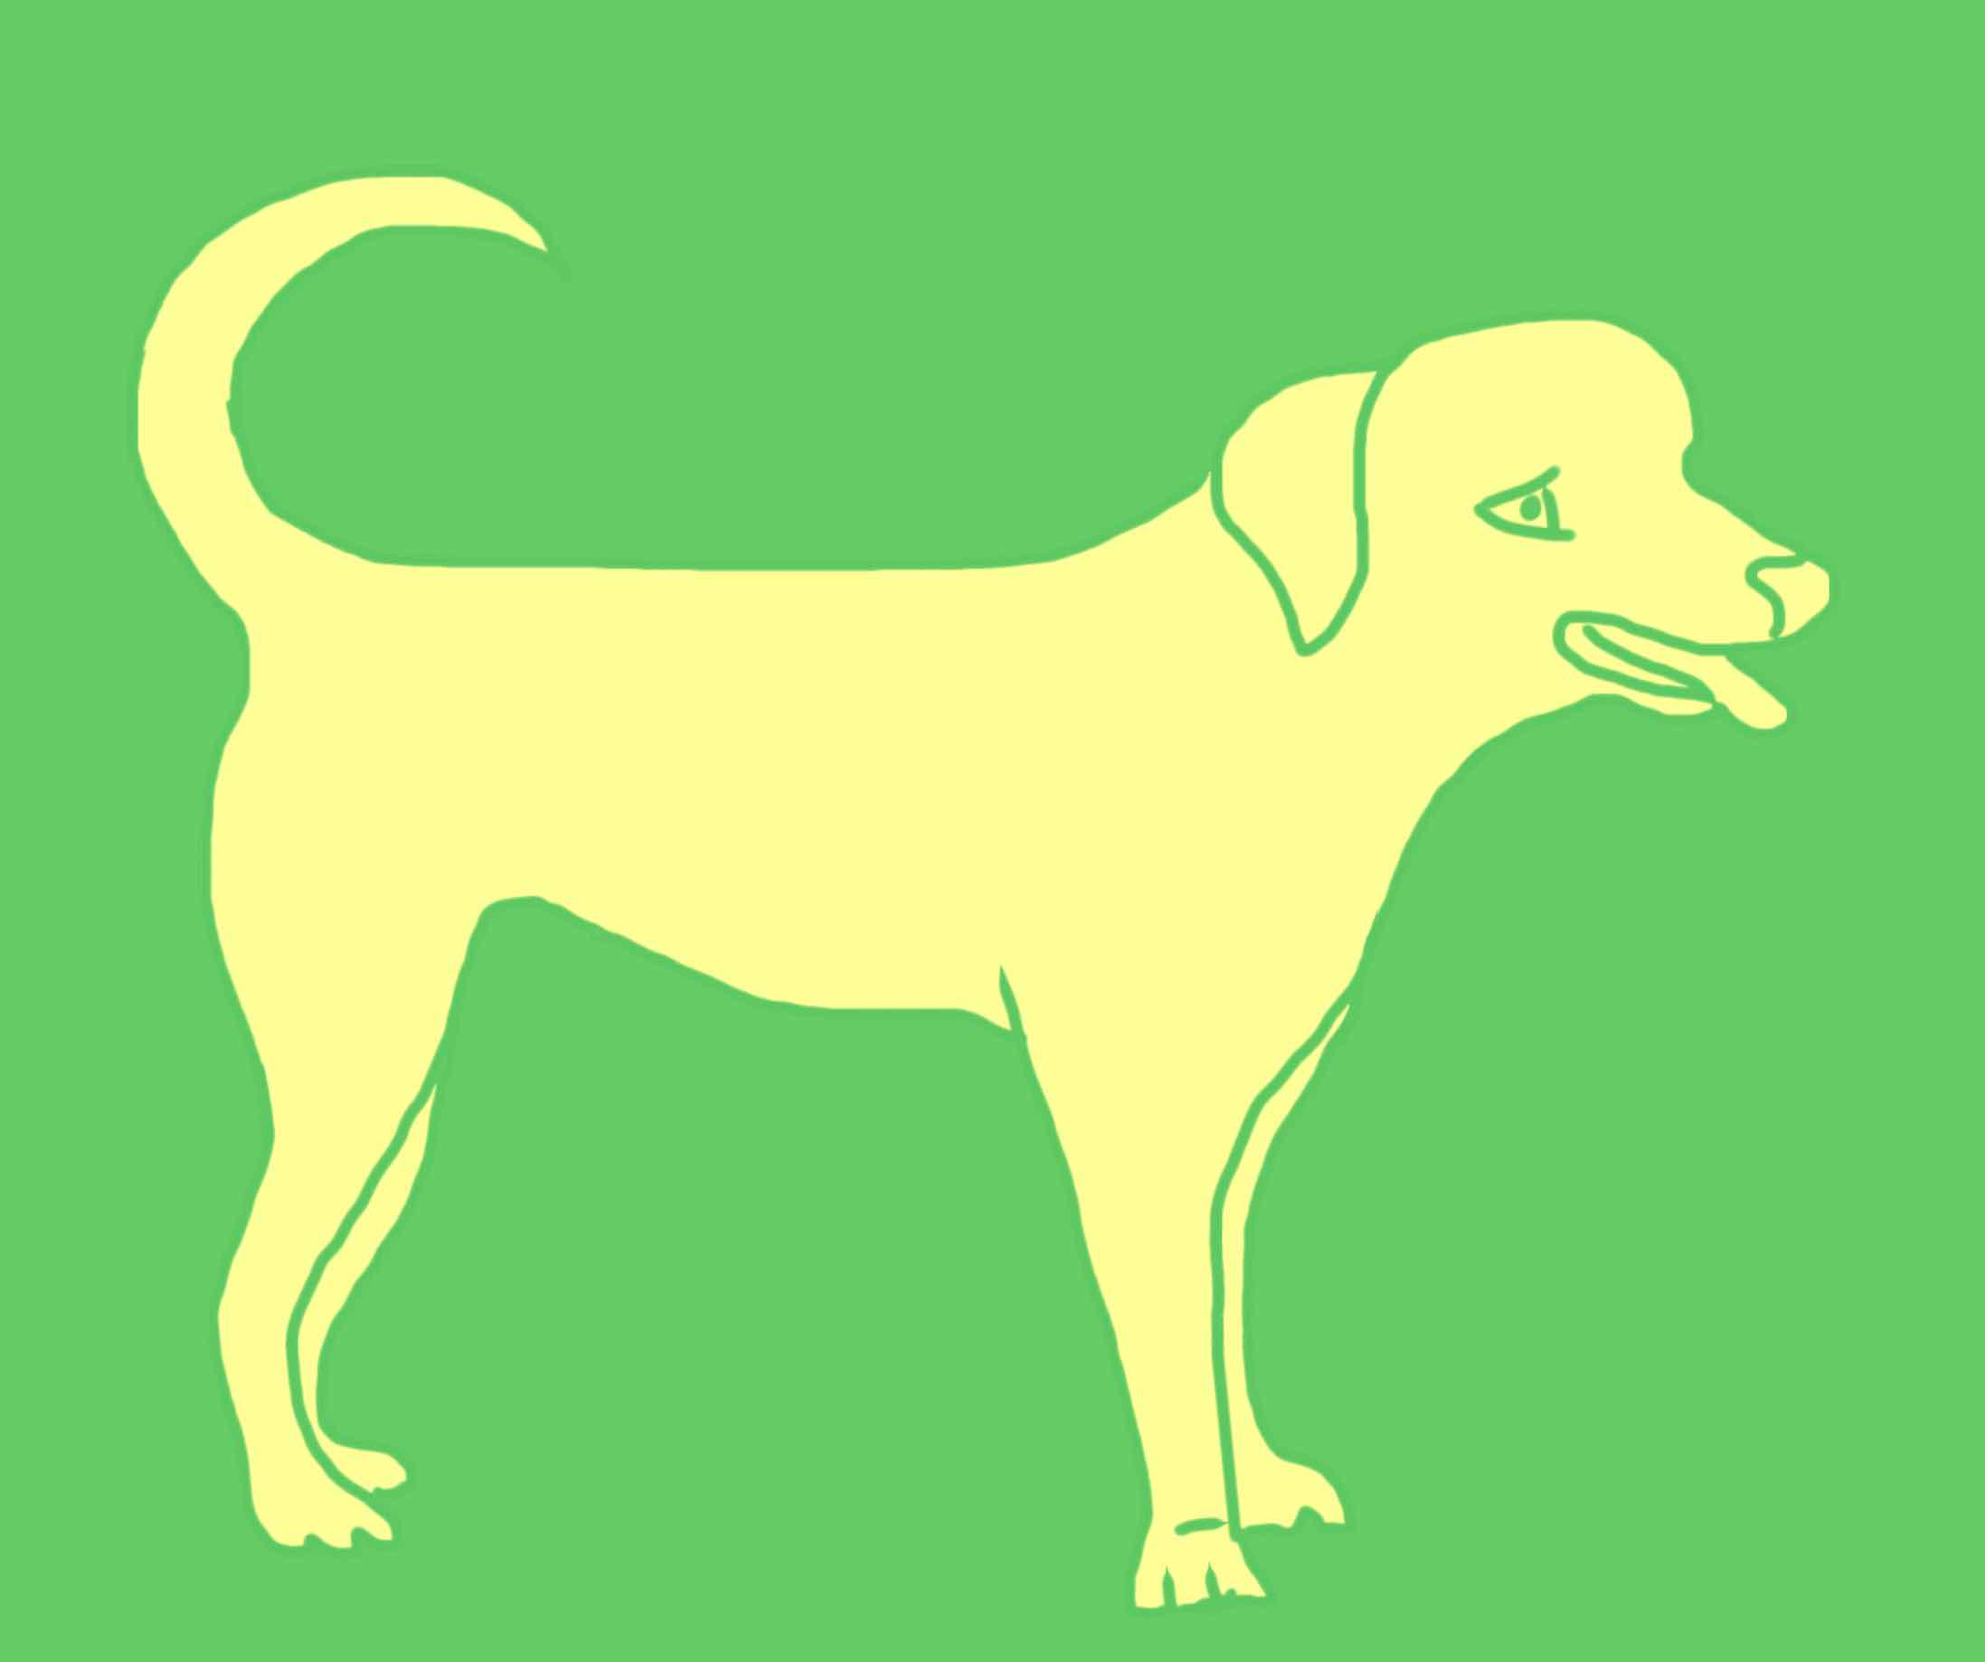
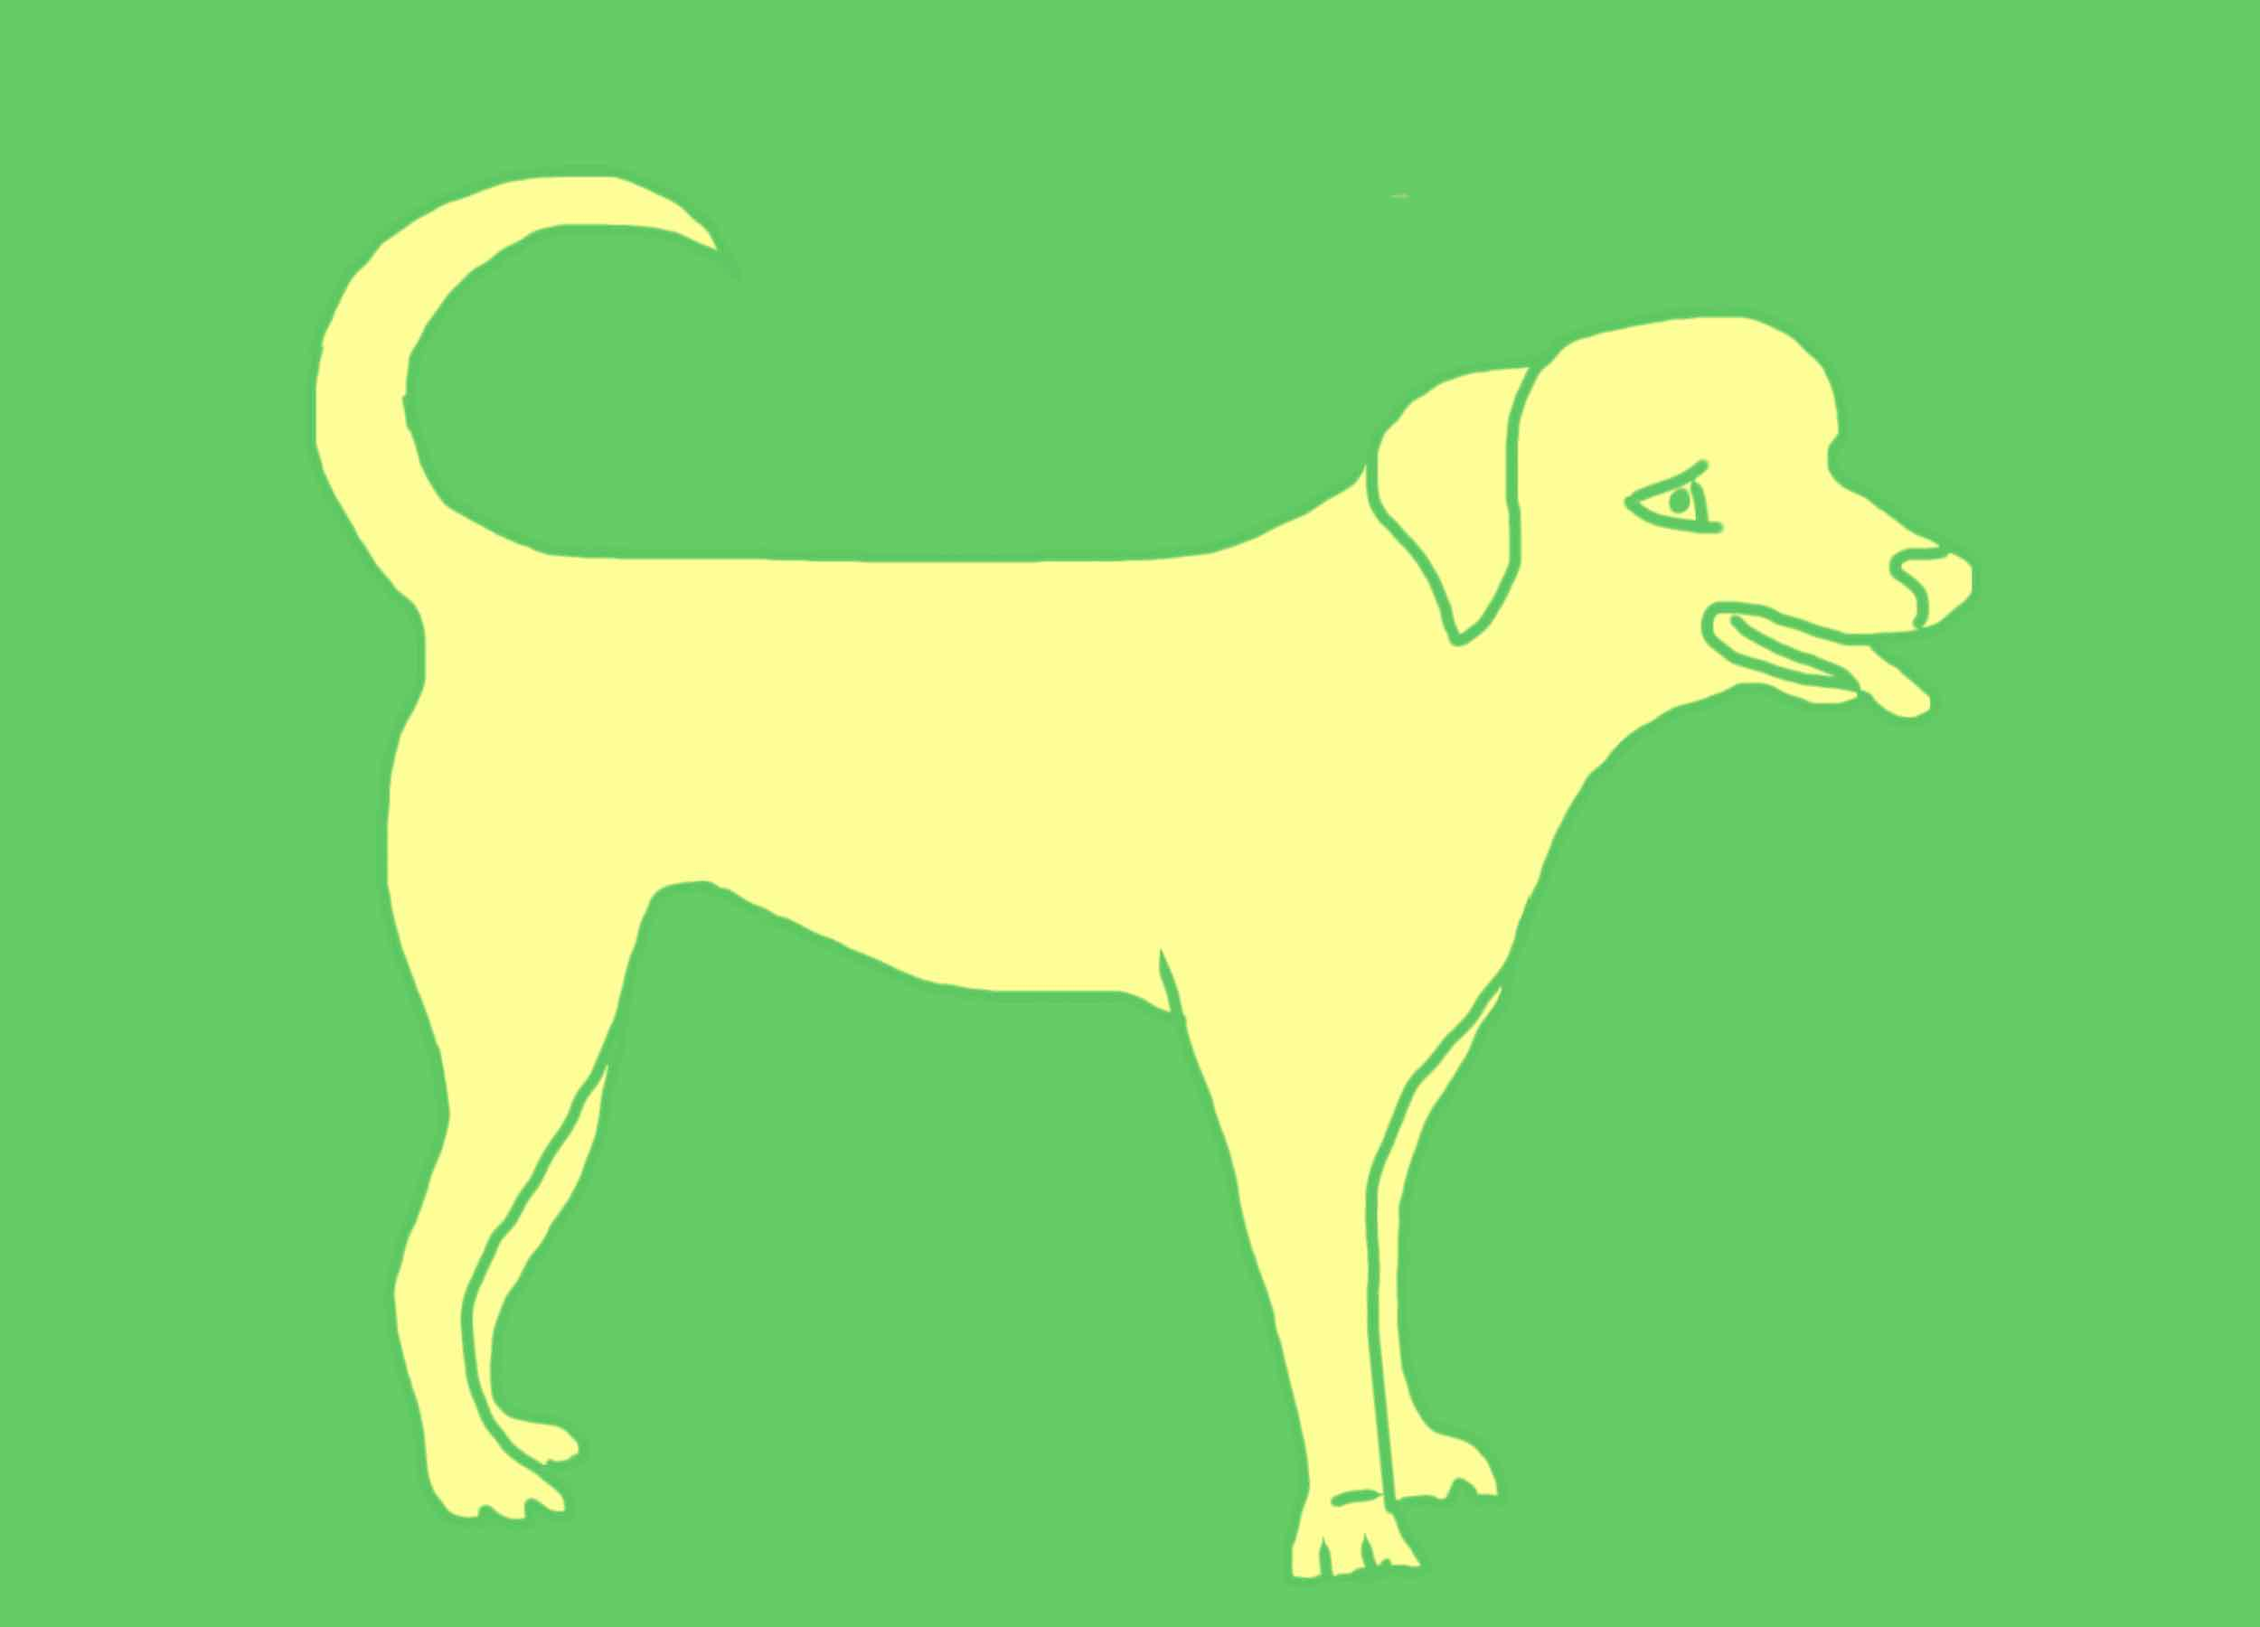
Styling and images

diff --git a/client/styles/parallax.css b/client/styles/parallax.css
@@ -100,22 +100,22 @@
   z-index: 5; /* slide over group 2 */
 }
 #group1 .parallax__layer--base {
-  background-image: url('IMG_0348.JPG');
   background-repeat: no-repeat;
   background-size: contain;
   background-position: center center;
-  background-color: rgb(102,204,102);
+  background-color: #20D665;
+  background-image: url('dog.jpg');
 }
 
 #group2 {
   z-index: 3; /* slide under groups 1 and 3 */
 }
 #group2 .parallax__layer--back {
-  background-image: url('bird.jpg');
   background-repeat: no-repeat;
   background-size: contain;
   background-position: center center;
-  background-color: rgb(123,210,102);
+  background-color: #4BDE69;
+  background-image: url('leash.jpg');
 }
 
 #group3 {
@@ -123,10 +123,10 @@
 }
 #group3 .parallax__layer--base {
   background-color: rgb(153,216,101);
-  background-image: url('house.jpg');
   background-repeat: no-repeat;
   background-size: contain;
-  background-position: center bottom;
+  background-position: center center;
+  background-image: url('bone.jpg');
 }
 
 #group4 {
@@ -135,33 +135,24 @@
   /* slide under group 3 and 5 */
 }
 #group4 .parallax__layer--base {
-    /*background: rgb(184,223,101);*/
+  background-color: #ABE564;
+  background-repeat: no-repeat;
+  background-size: contain;
+  background-position: center center;
+  background-image: url('question.jpg');
 }
-
 
 
 #group5 {
-  z-index: 3; /* slide over group 4 and 6 */
-}
-#group5 .parallax__layer--base {
-  background-color: rgb(214,229,100);
-  background-color: rgb(254, 255, 153);
-  background-image: url('notepad.jpg');
+  /* slide over group 4 and 6 */
+  z-index: 3; 
+  background-color: #D0EA60;
   background-repeat: no-repeat;
-  background-size: 45%;
+  background-size: contain;
   background-position: center center;
+  background-image: url('notepad.jpg');
 }
 
-/*#group6 {
-  z-index: 2; /* slide under group 5 and 7 */
+#group5 .parallax__layer--base {
+  /*background-color: rgb(254, 255, 153);*/
 }
-#group6 .parallax__layer--back {
-  background: rgb(245,235,100);
-}
-
-#group7 {
-  z-index: 3; /* slide over group 7 */
-}
-#group7 .parallax__layer--base {
-  background: rgb(255,241,100);
-}*/

diff --git a/client/templates/home.html b/client/templates/home.html
@@ -61,7 +61,7 @@
     </div>
   </div>
   <div id="group5" class="parallax__group">
-    <div class="parallax__layer parallax__layer--fore">
+    <div class="parallax__layer parallax__base">
       <div class="title">
       	<p class='dogpadMessage'>
       		Start using Dogpad!
